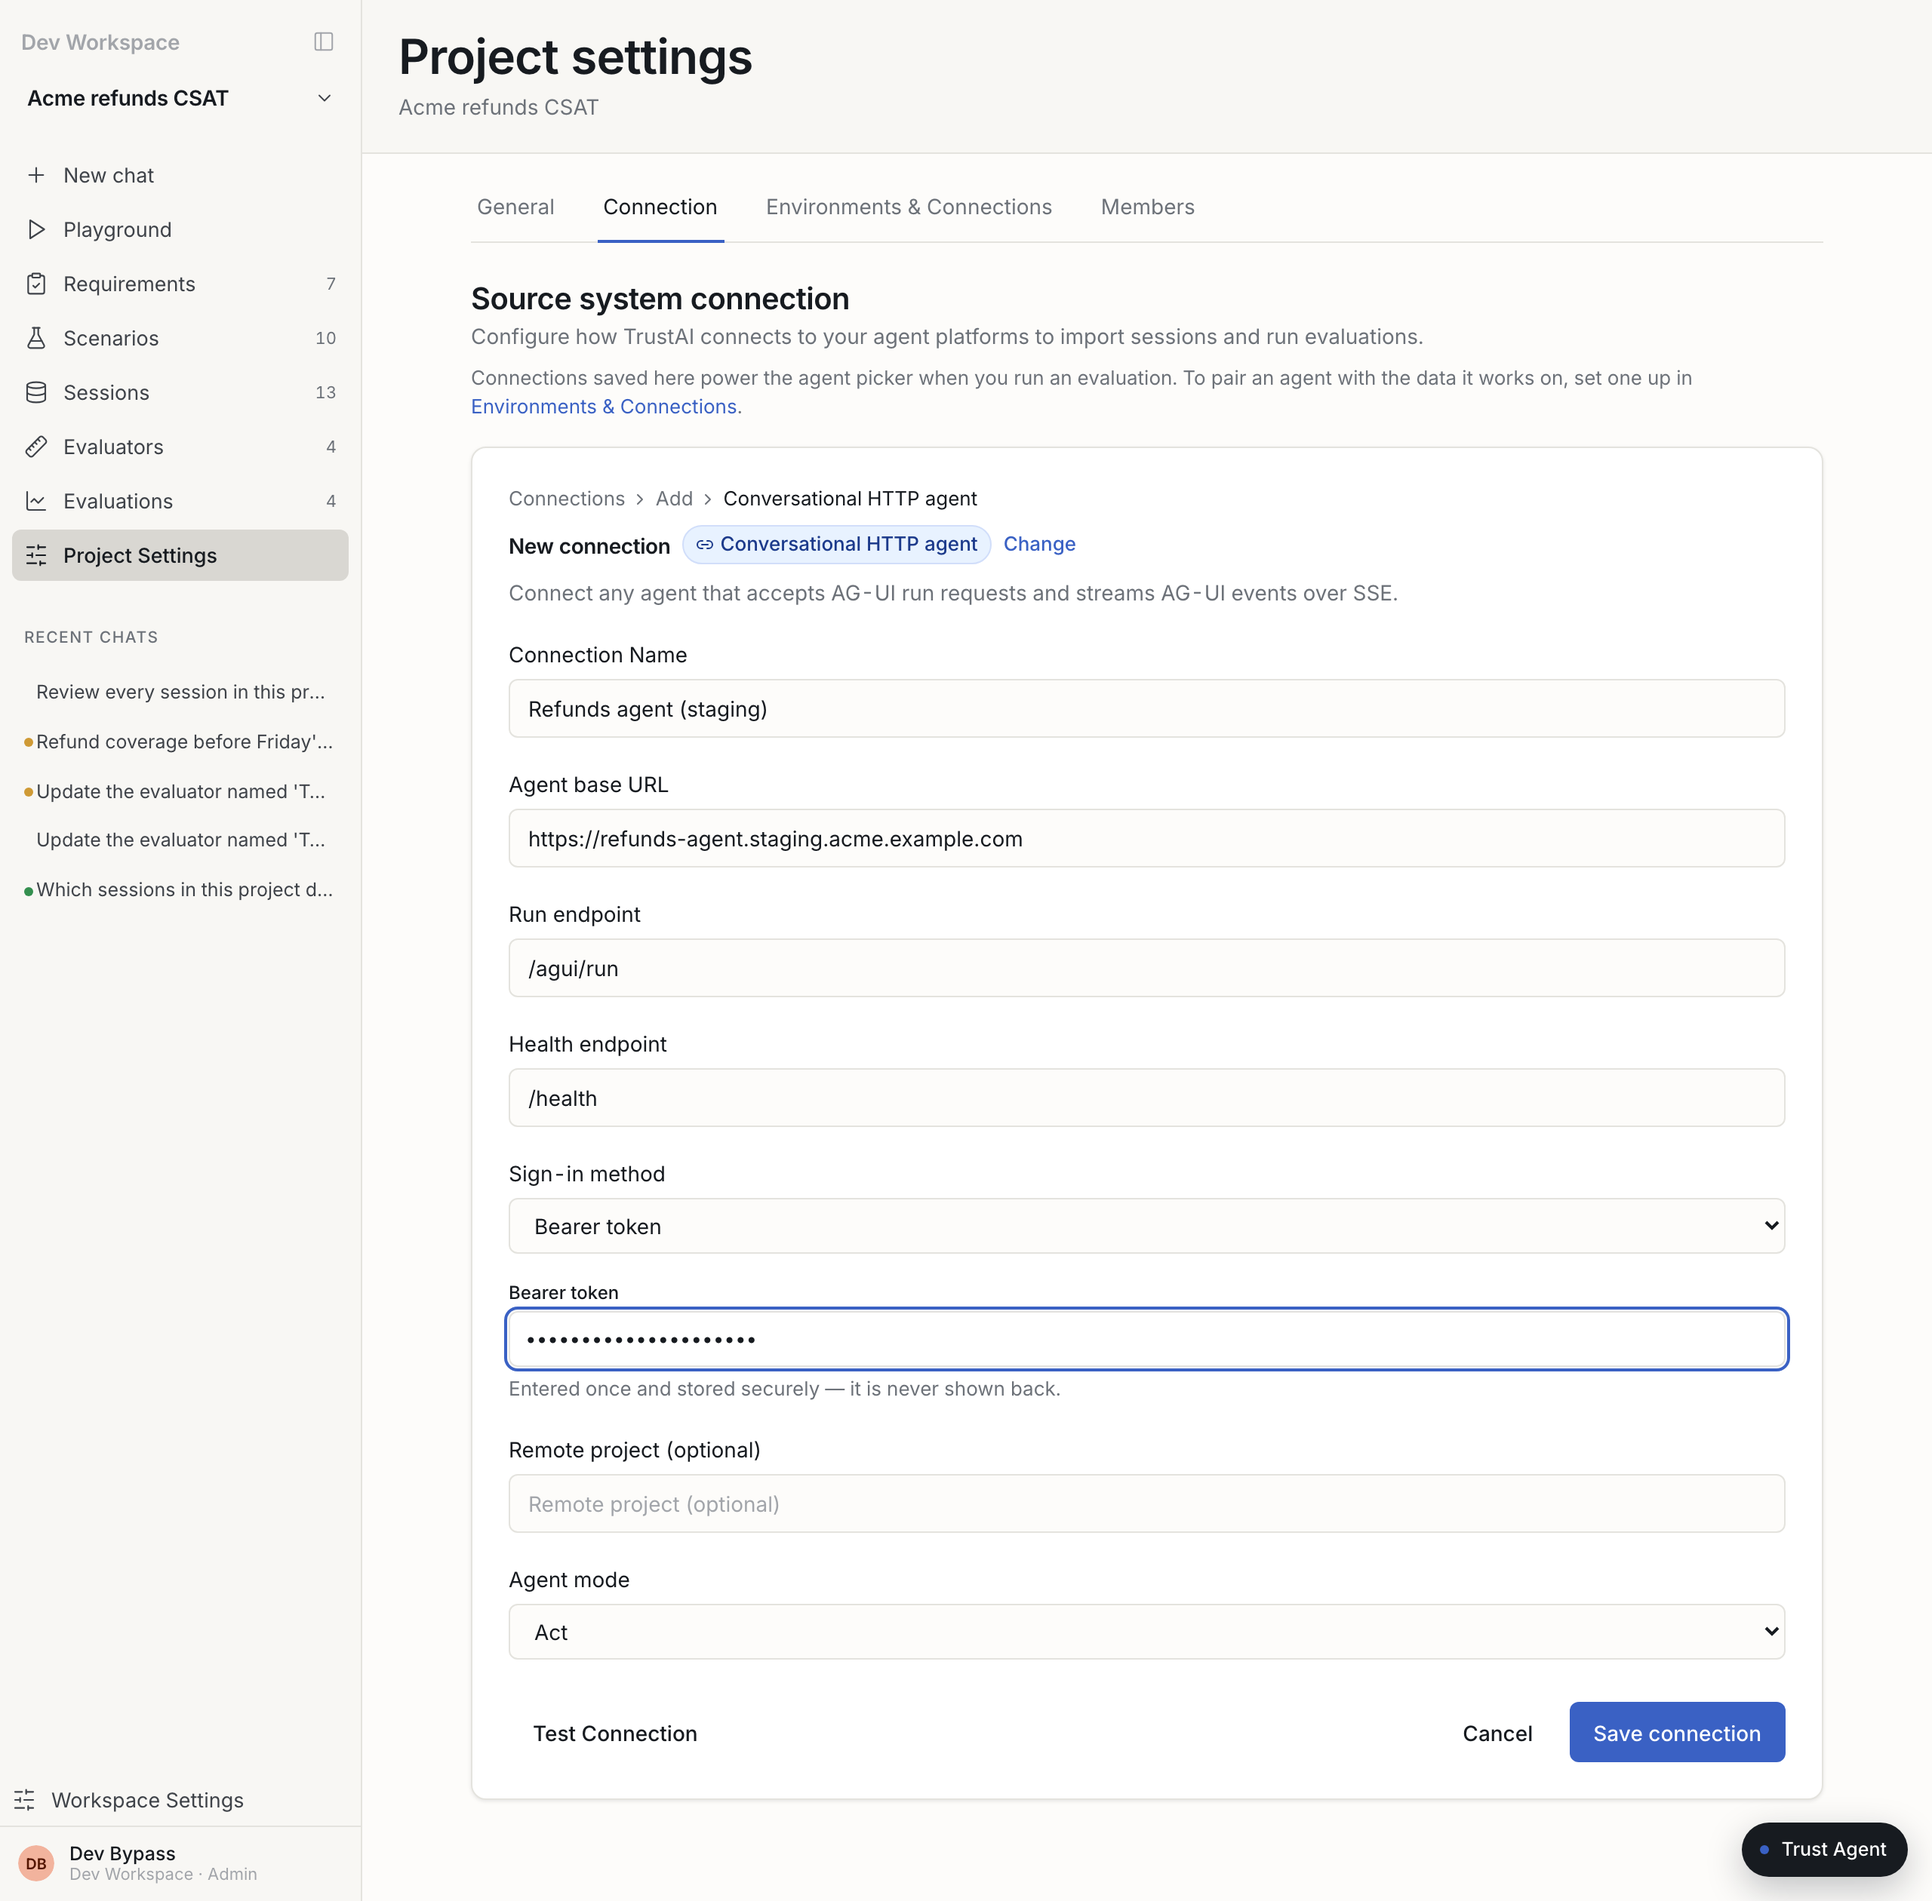
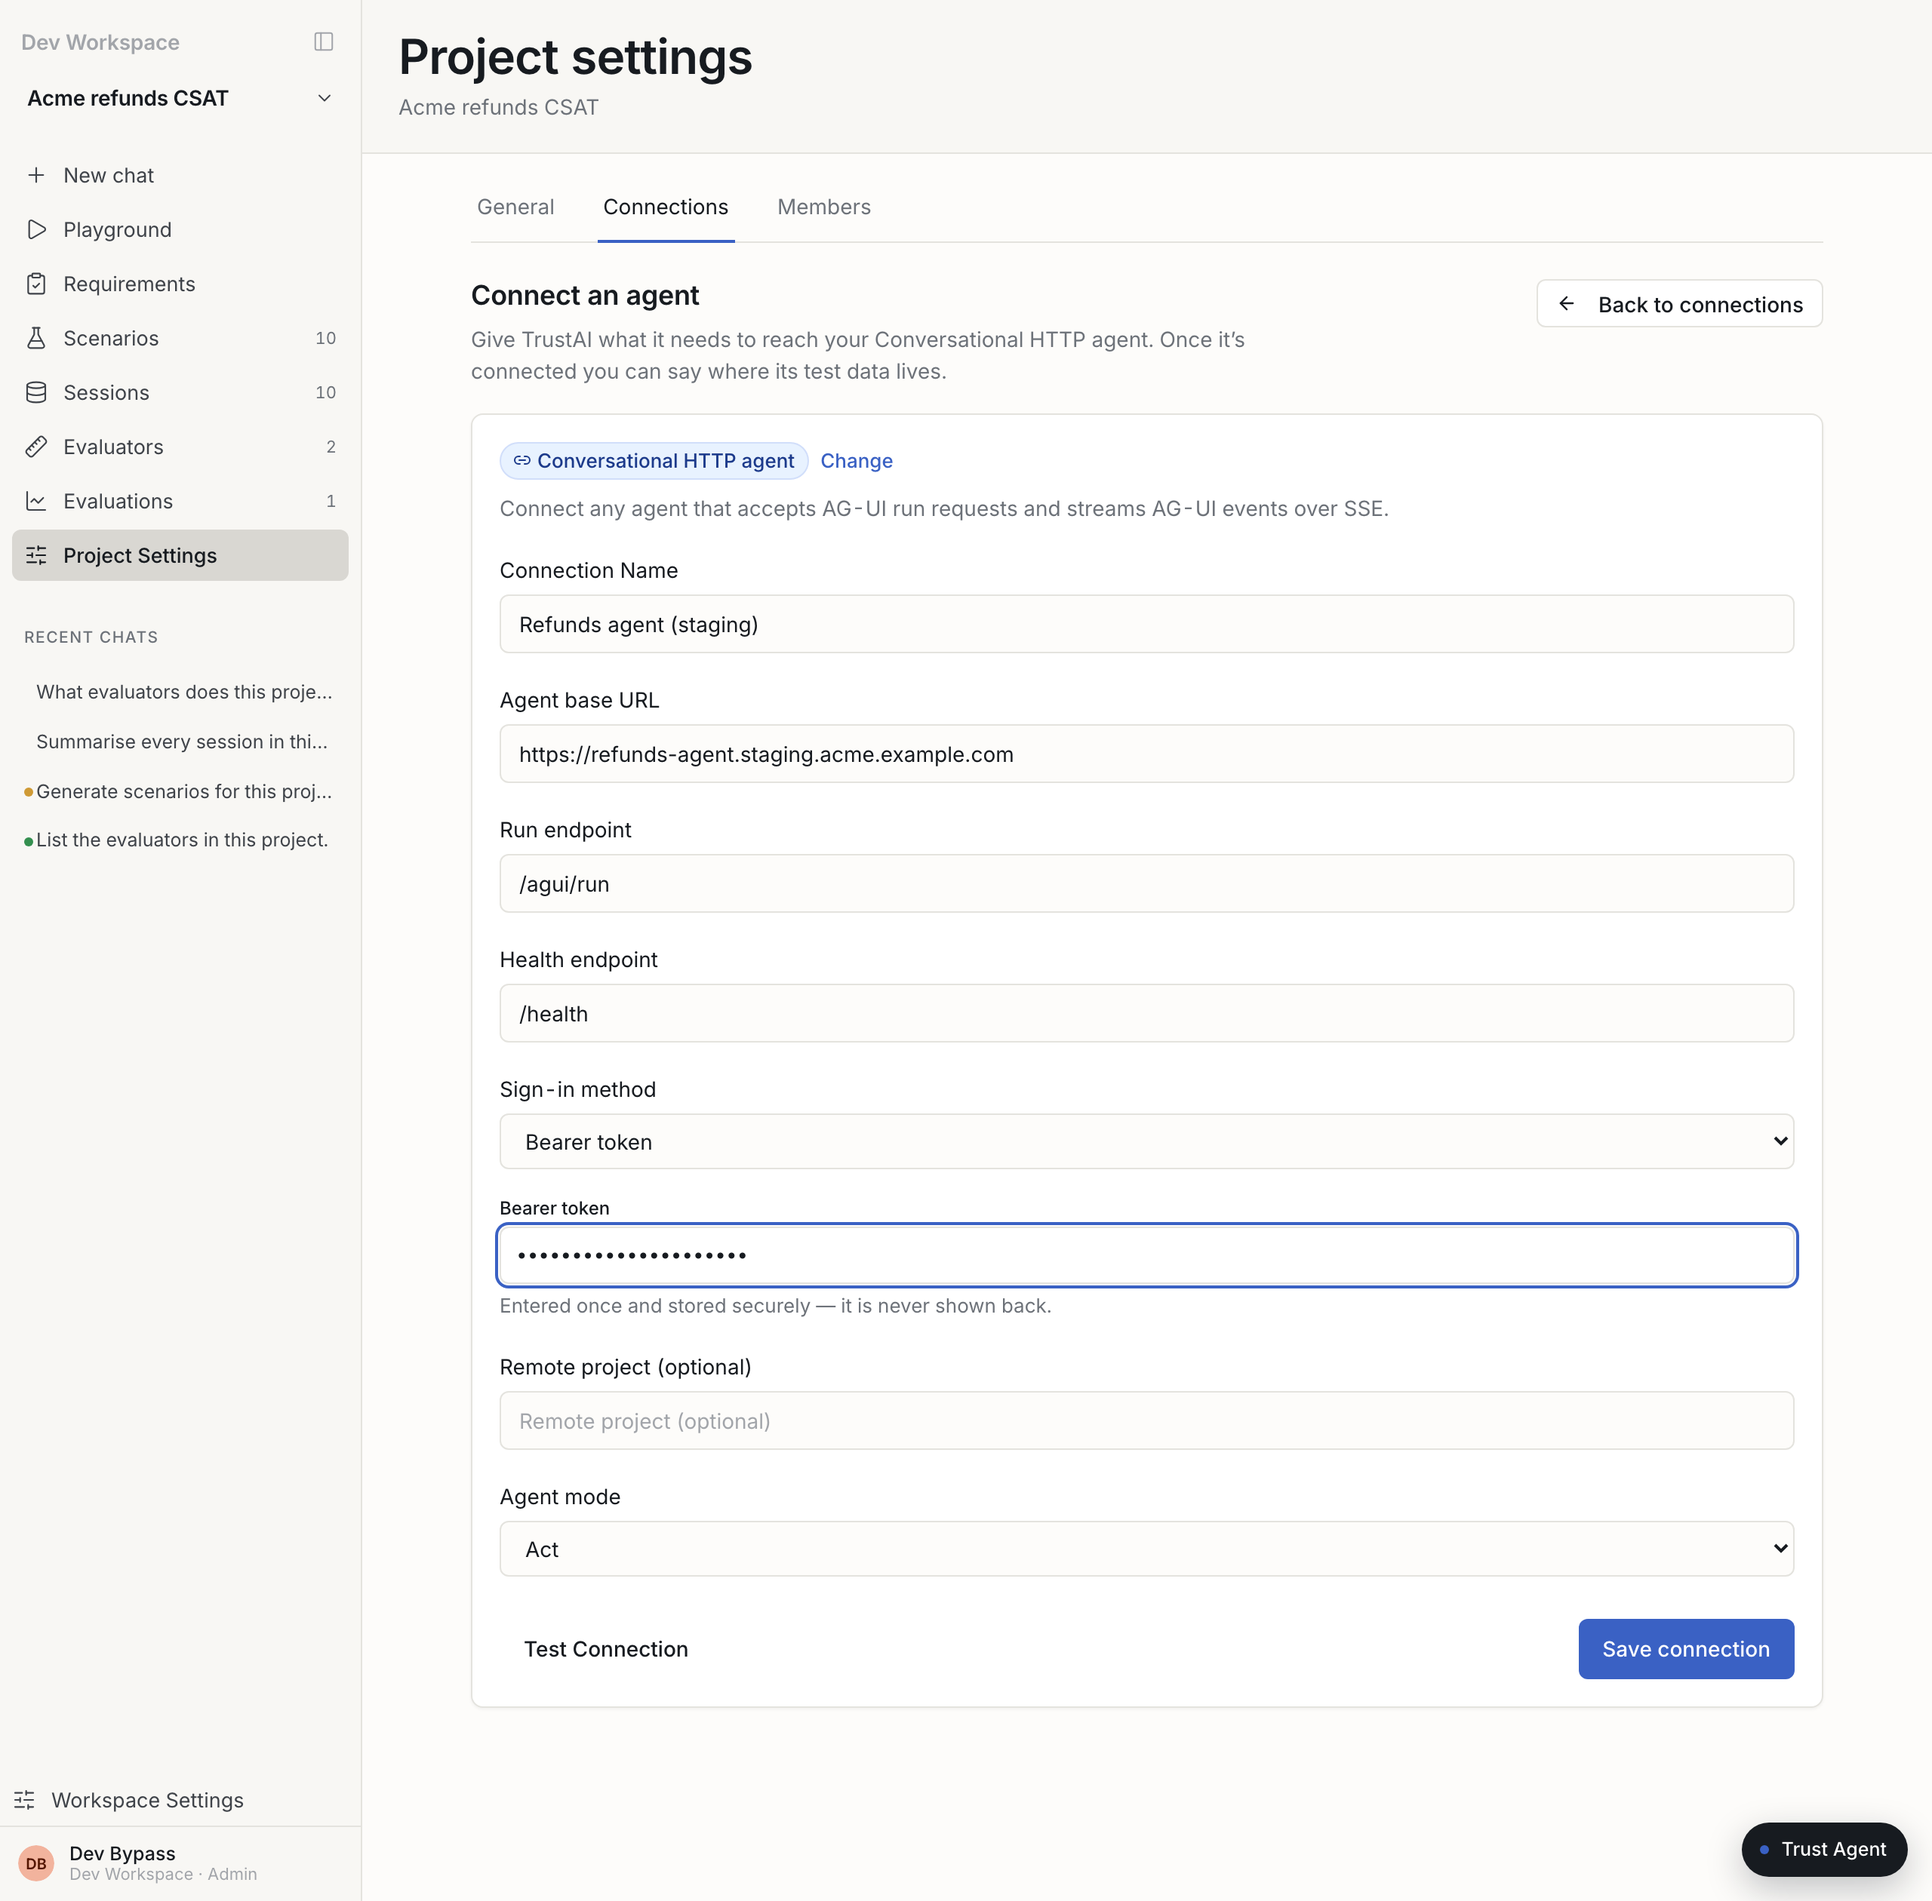
DEV-9111: realign the three connector how-tos to the Connections redesign
connect-agentcore, connect-claude-managed-agent and connect-http-agent all
documented the retired two-tab settings IA and a saved-connection view that
no longer has a door on a default build.

- Re-path every navigation instruction to Project Settings -> Connections ->
  Connect an agent, and describe the embedded wizard chrome as it ships: one
  page header, "Back to connections" on every step, no breadcrumb, no "New
  connection" heading, no Cancel.
- Replace the legacy saved-connection presentation with the redesigned card:
  name + platform chip + coordinate, the setup badge and the separate
  reachability pill as two non-interchangeable vocabularies, Customize
  environment, Remove. State plainly that no Edit exists, and link
  /how-to/manage-project-connections for card management rather than
  duplicating it.
- Point the Agent Profile at its only live door, the Playground topbar info
  button, and drop the Current agent version row from all three pages.
- connect-agentcore: drop the AgentCore readiness panel and the "Send
  sessions to TrustAI" card; keep the verified AWS-side prerequisites and
  move the streaming status detail into the setup-package narrative.
- connect-claude-managed-agent: "Edit or delete a connection" becomes
  Remove, with the shipped dialog copy, and the health words become the
  Connections vocabulary rather than the Trust Agent rail's.
- connect-http-agent: fix the coverage table - "Tool schemas" is now "Tool
[…]

diff --git a/captures/scripts/connect-http-agent.ts b/captures/scripts/connect-http-agent.ts
@@ -2,60 +2,135 @@
  * Capture: connecting a Conversational HTTP agent.
  *
  * Outputs:
- *   ../images/connect-http-platform-picker.png  — the Add-a-connection picker, all four cards
+ *   ../images/connect-http-platform-picker.png  — the platform picker, all four cards
  *   ../images/connect-http-connection-form.png  — the form with Sign-in method = Bearer token
  *
- * Both surfaces live inside Project Settings → Connection
- * (/projects/:id/settings/connection), rendered by
- * legacy/features/settings/connection-tab.tsx. The tab is a single panel that
- * swaps between the connection LIST, the platform PICKER and the connection
- * FORM, so both shots are reached by clicking through from the list — there is
- * no direct route to either.
+ * Both surfaces live inside Project Settings → **Connections** → **Connect an
+ * agent** (/projects/:id/settings/connections/connect). That route mounts the
+ * shipped connect wizard inside the redesigned Connections chrome, which is
+ * why neither shot can be reached by URL alone in the old way:
+ *
+ *   - the settings strip reads General / Connections / Members — there is no
+ *     "Connection" tab any more, and /settings/connection redirects onto
+ *     /settings/connections;
+ *   - under the embedded chrome the wizard suppresses its own "Add a
+ *     connection" heading, its "New connection" heading and its breadcrumb.
+ *     The page header reads "Connect an agent" on every step and the only
+ *     escape is "Back to connections".
+ *
+ * So the markers this script waits on are the page header and the platform
+ * cards themselves, never the retired headings — waiting on "Add a connection"
+ * is how this script silently captured the pre-redesign IA for a release.
  *
  * Nothing here is ever saved. The form is filled and shot before "Save
- * connection" is clicked, so the capture leaves no host behind in the fixture
- * (other capture runs share this project).
+ * connection" is clicked, so the capture leaves no connection behind in the
+ * fixture (other capture runs share this project).
+ *
+ * Hosts are overridable because the docs audit runs the app on a pinned tag
+ * beside a developer's own stack:
+ *   TRUSTAI_APP_URL (default http://localhost:3000)
+ *   TRUSTAI_API_URL (default http://localhost:8000)
+ *   TRUSTAI_PROJECT (optional exact project name; otherwise the first project)
  */
 import { test, expect } from "@playwright/test";
-import { gotoSurface, settle } from "../lib/helpers";
+import { settle } from "../lib/helpers";
 
-const CONNECTION = "settings/connection";
-const TAB_MARKER = "text=Source system connection";
+const APP = process.env.TRUSTAI_APP_URL ?? "http://localhost:3000";
+const API = process.env.TRUSTAI_API_URL ?? "http://localhost:8000";
 
-/** Open the picker from whichever state the Connection tab lands in. */
+/** The four platform cards, in the order the picker lays them out. */
+const PLATFORMS = [
+  "AWS Bedrock AgentCore",
+  "Salesforce Agentforce",
+  "Claude Managed Agent",
+  "Conversational HTTP agent",
+];
+
+/**
+ * Resolve the project to shoot in.
+ *
+ * Never hardcode an id — seeds change. And prefer a NAMED project when the
+ * caller gives one: a project's name is painted in the settings header, so a
+ * scratch project left behind by another job puts its own title (often a
+ * ticket id) into a reader-facing screenshot.
+ */
+async function projectId(): Promise<string> {
+  const res = await fetch(`${API}/v1/projects`);
+  if (!res.ok) {
+    throw new Error(
+      `Cannot reach ${API}/v1/projects (HTTP ${res.status}). Is the app running on the release tag?`
+    );
+  }
+  const body = await res.json();
+  const items: Array<{ id: string; name: string }> = Array.isArray(body)
+    ? body
+    : (body.items ?? []);
+  if (items.length === 0) {
+    throw new Error(
+      "No projects exist. Seed one first: `pnpm seed acme-refunds-csat` in the app repo."
+    );
+  }
+  const wanted = process.env.TRUSTAI_PROJECT;
+  if (wanted) {
+    const match = items.find((p) => p.name === wanted);
+    if (!match) {
+      throw new Error(
+        `No project named "${wanted}". Found: ${items.map((p) => p.name).join(", ")}`
+      );
+    }
+    return match.id;
+  }
+  return items[0].id;
+}
+
+/** Open the connect wizard on its first step, from the Connections tab. */
 async function openPicker(page: import("@playwright/test").Page) {
-  await gotoSurface(page, CONNECTION, TAB_MARKER);
+  const id = await projectId();
+  await page.goto(`${APP}/projects/${id}/settings/connections`);
+
+  // Prove we are on the redesigned tab and not the SPA fallback: the tab's own
+  // subtitle is rendered by nothing else.
+  await page
+    .getByText("The agents this project tests", { exact: false })
+    .first()
+    .waitFor({ state: "visible", timeout: 20_000 });
   await settle(page);
 
-  // "Add connection" is the empty-state button when the project has no
-  // connections and the header button when it has some. Either way there is
-  // exactly one, and it is the only way into the picker.
-  await page.getByRole("button", { name: "Add connection" }).first().click();
-  await page.getByRole("heading", { name: "Add a connection" }).waitFor({ state: "visible" });
+  // "Connect an agent" is the header action when the project has connections
+  // and the empty-state hero when it has none. Both are LINKS to
+  // /settings/connections/connect, not buttons — the wizard is a route, so
+  // matching on the button role finds nothing and times out.
+  await page.getByRole("link", { name: "Connect an agent" }).first().click();
+
+  await page
+    .getByRole("heading", { name: "Connect an agent" })
+    .waitFor({ state: "visible", timeout: 20_000 });
   await settle(page);
 }
 
-test("add-a-connection platform picker", async ({ page }) => {
+test("connect-an-agent platform picker", async ({ page }) => {
   await page.setViewportSize({ width: 1280, height: 860 });
   await openPicker(page);
 
   // The page tells the reader there are four cards and names all four. If the
   // build ever ships a fifth (or drops one) the prose is wrong, so assert the
   // set rather than just "some cards rendered".
-  const cards = page.locator("main button", { hasText: "Connect" });
-  const labels = [
-    "AWS Bedrock AgentCore",
-    "Salesforce Agentforce",
-    "Claude Managed Agent",
-    "Conversational HTTP agent",
-  ];
-  for (const label of labels) {
+  for (const label of PLATFORMS) {
     await expect(
       page.getByRole("button", { name: new RegExp(`^${label}`) }),
       `The picker did not render a "${label}" card`
     ).toHaveCount(1);
   }
-  expect(await cards.count(), "The picker rendered a card count the page does not describe").toBe(4);
+
+  // The retired chrome must be absent, or this shot is the old IA again.
+  await expect(
+    page.getByRole("heading", { name: "Add a connection" }),
+    "The picker still renders its own heading — the embedded chrome is off"
+  ).toHaveCount(0);
+  await expect(
+    page.getByRole("button", { name: "Back to connections" }),
+    "The page-level escape is missing — this is not the embedded chrome"
+  ).toHaveCount(1);
 
   await settle(page);
   await page.screenshot({ path: "../images/connect-http-platform-picker.png" });
@@ -66,7 +141,14 @@ test("conversational http connection form with bearer token", async ({ page }) =
   await openPicker(page);
 
   await page.getByRole("button", { name: /^Conversational HTTP agent/ }).click();
-  await page.getByRole("heading", { name: "New connection" }).waitFor({ state: "visible" });
+
+  // The form step keeps the page header and the escape; what identifies the
+  // step is the platform chip and the connection-name field.
+  await page.locator("#connection-name").waitFor({ state: "visible", timeout: 20_000 });
+  await expect(
+    page.getByRole("heading", { name: "New connection" }),
+    "The form still renders its legacy heading — the embedded chrome is off"
+  ).toHaveCount(0);
   await settle(page);
 
   // Fill the form with the values a real reader would type. Run endpoint and
@@ -90,7 +172,7 @@ test("conversational http connection form with bearer token", async ({ page }) =
   // The form is taller than the standard viewport — Agent mode and the
   // Save / Test Connection row sit below the fold. Grow the viewport to the
   // page's own height rather than shooting the <form> element on its own:
-  // an element shot loses the Project Settings header and the Connection tab
+  // an element shot loses the Project Settings header and the Connections tab
   // that tell the reader where the form lives, and the fixed Trust Agent
   // launcher still paints over it, clipping "Save connection". The extra
   // 140px of headroom parks that launcher over empty canvas instead.
